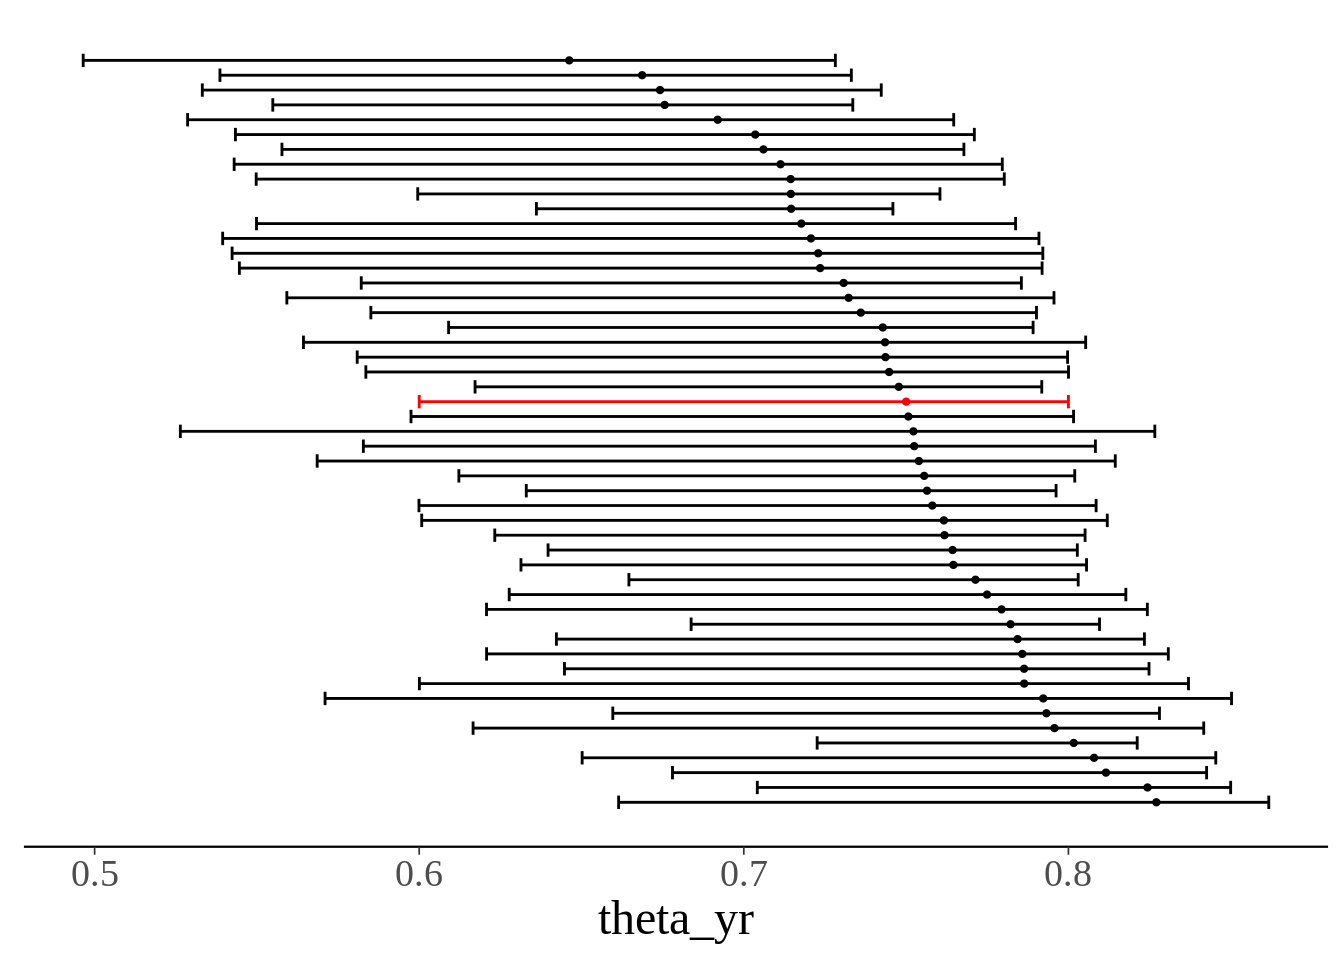
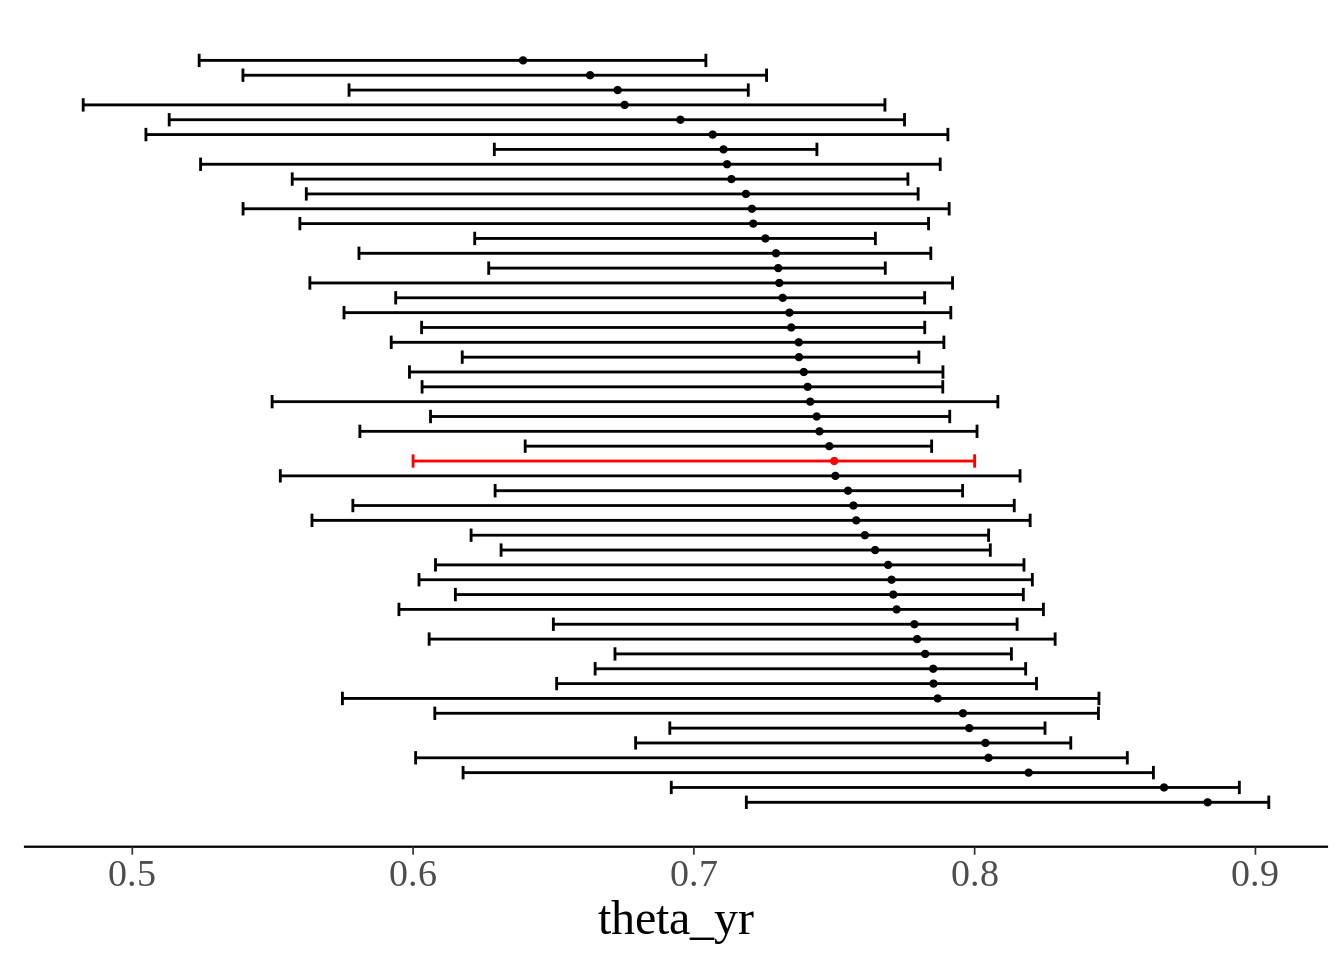
actually randomly sample the iterations

diff --git a/content/post/survey-nonresponse-stan.html b/content/post/survey-nonresponse-stan.html
@@ -111,7 +111,7 @@ fit &lt;- sampling(nonresponse, survey_data)</code></pre>
 <p>Another way to show our posterior is to plot 50 draws from the posterior of our estimated range for <span class="math inline">\(\theta\)</span> and for <span class="math inline">\(\theta_{yr}\)</span>. Plus, we’ll show our “point estimate” for the interval in red.</p>
 <pre class="r"><code>num_iter &lt;- 50
 DT &lt;- as.data.table(rstan::extract(fit, c(&#39;theta_lower&#39;, &#39;theta_upper&#39;, &#39;theta_yr&#39;)))
-DT &lt;- DT[1:num_iter][, point := FALSE]
+DT &lt;- DT[sample(.N, num_iter)][, point := FALSE]
 pointDT &lt;- data.table(
     theta_lower = theta_lower_point,
     theta_upper = theta_upper_point,
@@ -120,7 +120,7 @@ pointDT &lt;- data.table(
 )
 DT &lt;- rbindlist(list(DT, pointDT))
 DT &lt;- DT[order(-theta_yr)]
-DT[, iter := 1:nrow(DT)]
+DT[, iter := 1:.N]
 
 ggplot(DT, aes(xmin = theta_lower, xmax = theta_upper, x = theta_yr, y = iter, color = point)) +
     geom_errorbarh() +
